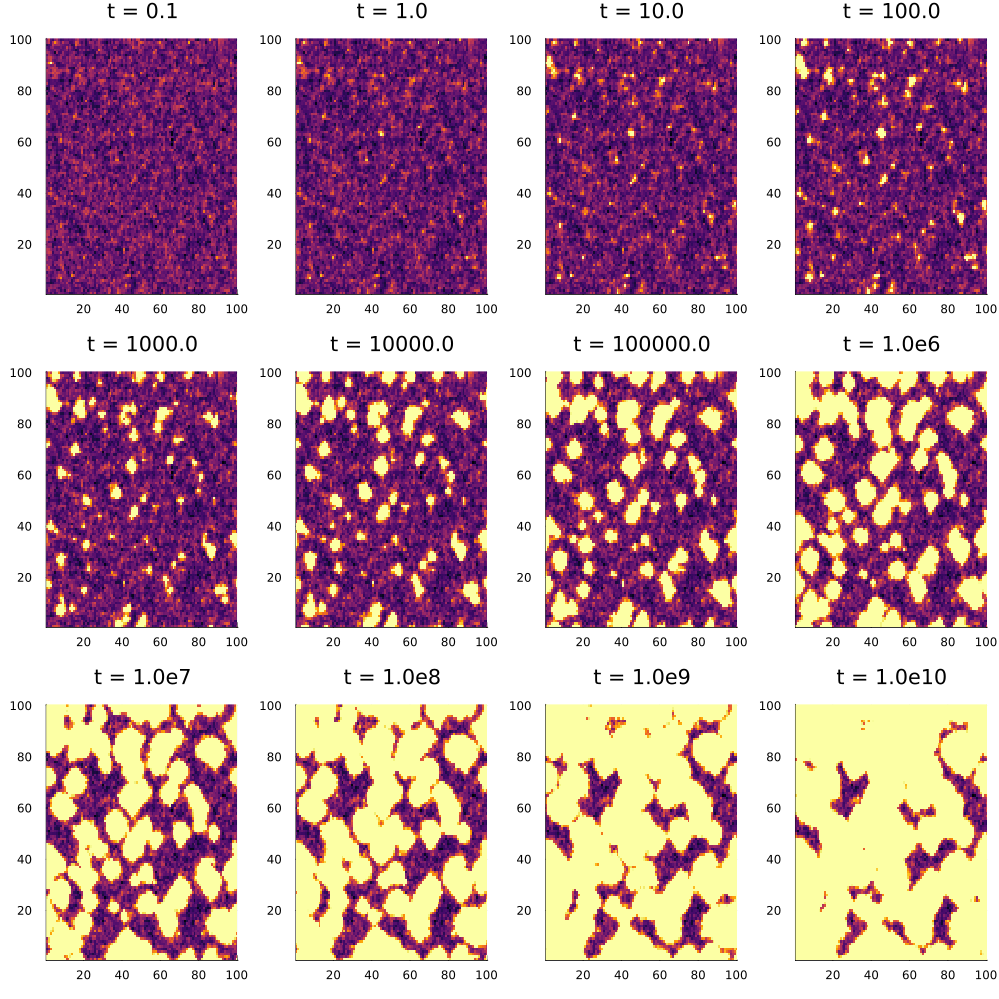
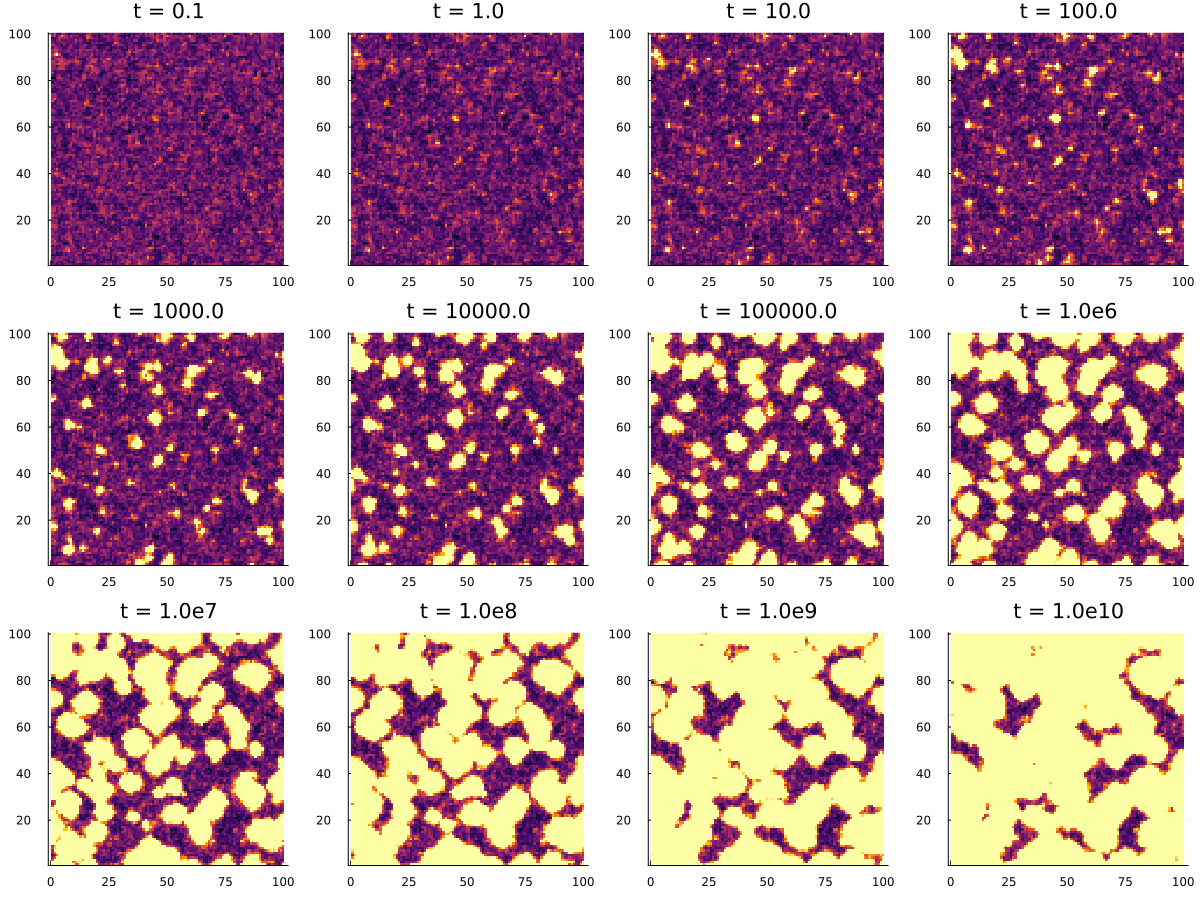
update image

diff --git a/docs/src/index.md b/docs/src/index.md
@@ -76,9 +76,10 @@ F = reshape(F, (n,n,Nt)); # array of (n,n,Nt)
 ps = []
 for ti = 10.0 .^ (-1:10)
     it = findfirst(x -> x>ti, t)
-    p_i = heatmap(clamp.(-F[:, :, it], -1, 1), colorbar=false, title="t = $ti")
+    p_i = heatmap(clamp.(-F[:, :, it], -1, 1), colorbar=false, title="t = $ti", aspect_ratio=1.0)
     push!(ps, p_i)
 end
-plot(ps..., size=(1000,1000))
+p = plot(ps..., size=(1200,900))
+
 ```
 ![image](images/SBR_hm.png)
